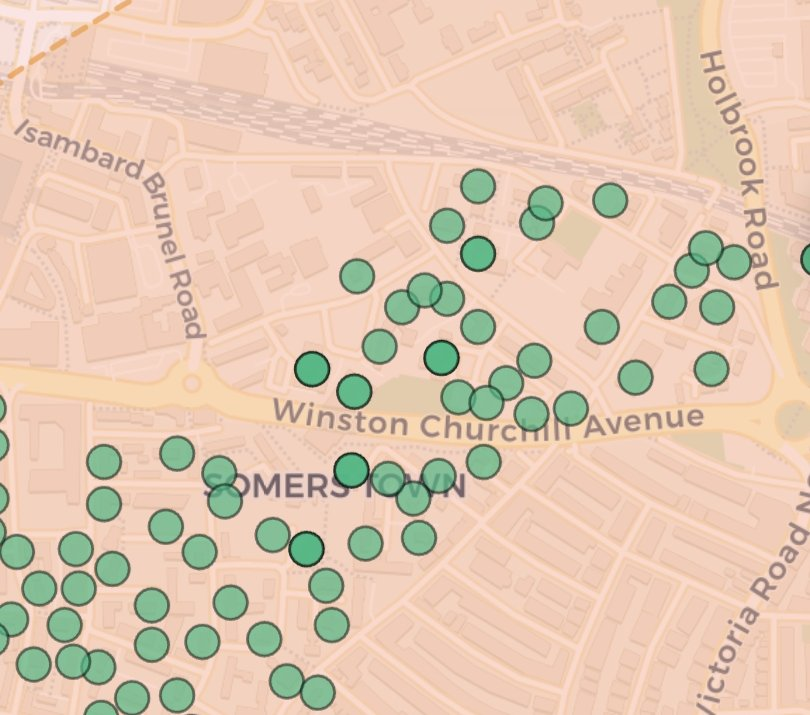
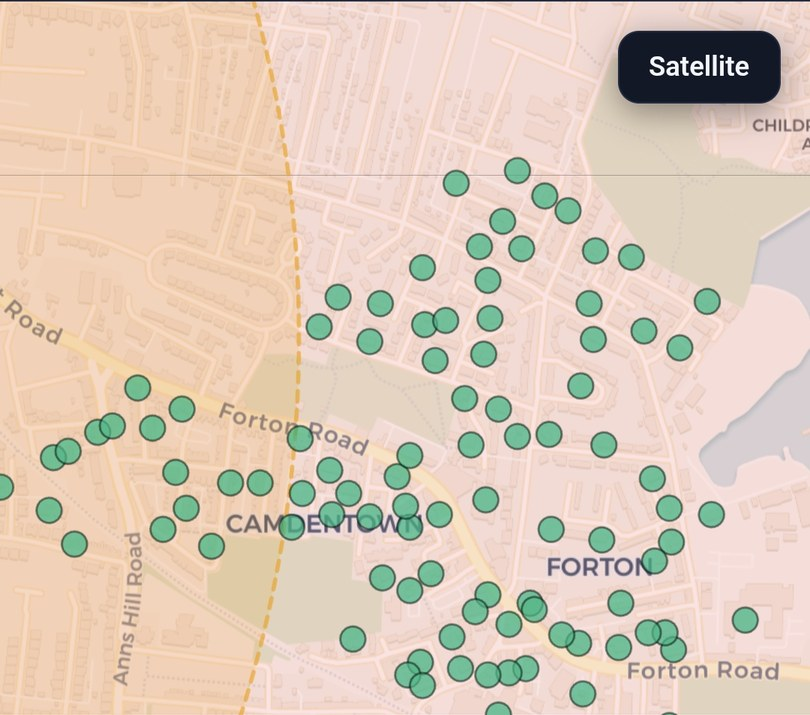
Add files via upload

diff --git a/index.html b/index.html
@@ -328,7 +328,7 @@ button{font-family:inherit;cursor:pointer}
 /* ── PRICING ──────────────────────────────── */
 .pg-label{font-size:.78rem;font-weight:600;letter-spacing:.06em;text-transform:uppercase;color:var(--slate-2);
   margin-bottom:16px;padding-bottom:11px;border-bottom:1px solid var(--border);display:flex;align-items:center;gap:10px}
-.pg-ind{display:grid;grid-template-columns:repeat(3,1fr);gap:14px;margin-bottom:28px}
+.pg-ind{display:grid;grid-template-columns:repeat(2,1fr);gap:14px;margin-bottom:28px}
 .pg-team{display:grid;grid-template-columns:repeat(3,1fr);gap:14px;margin-bottom:14px}
 .pg-team2{display:grid;grid-template-columns:repeat(2,1fr);gap:14px}
 .pc3{background:var(--white);border:1px solid var(--border);border-radius:var(--r-lg);padding:24px;display:flex;flex-direction:column;position:relative;box-shadow:var(--shadow-sm);transition:all .2s}
@@ -895,11 +895,11 @@ footer{background:var(--navy);border-top:1px solid var(--border-d);padding:52px 
         <div class="satview-toggle"><span class="sv-opt">Street</span><span class="sv-opt sv-on">Satellite</span></div>
         <div class="satview-pair">
           <div class="sv-tile sv-street">
-            <img src="/showcase-street.jpg" alt="Street-map view of a Southsea estate — Dunsmore Close, Brougham Road, King Street, Green Road — with eligible-property dots" loading="lazy">
+            <img src="/showcase-street.jpg" alt="Street-map view of an estate with eligible-property dots" loading="lazy">
             <span class="sv-cap">Street view</span>
           </div>
           <div class="sv-tile sv-sat">
-            <img src="/showcase-satellite.jpg" alt="Satellite view of the same Southsea estate with the same eligible-property dots" loading="lazy">
+            <img src="/showcase-satellite.jpg" alt="Satellite view of the same estate with the same eligible-property dots" loading="lazy">
             <span class="sv-cap">Satellite view</span>
           </div>
         </div>
